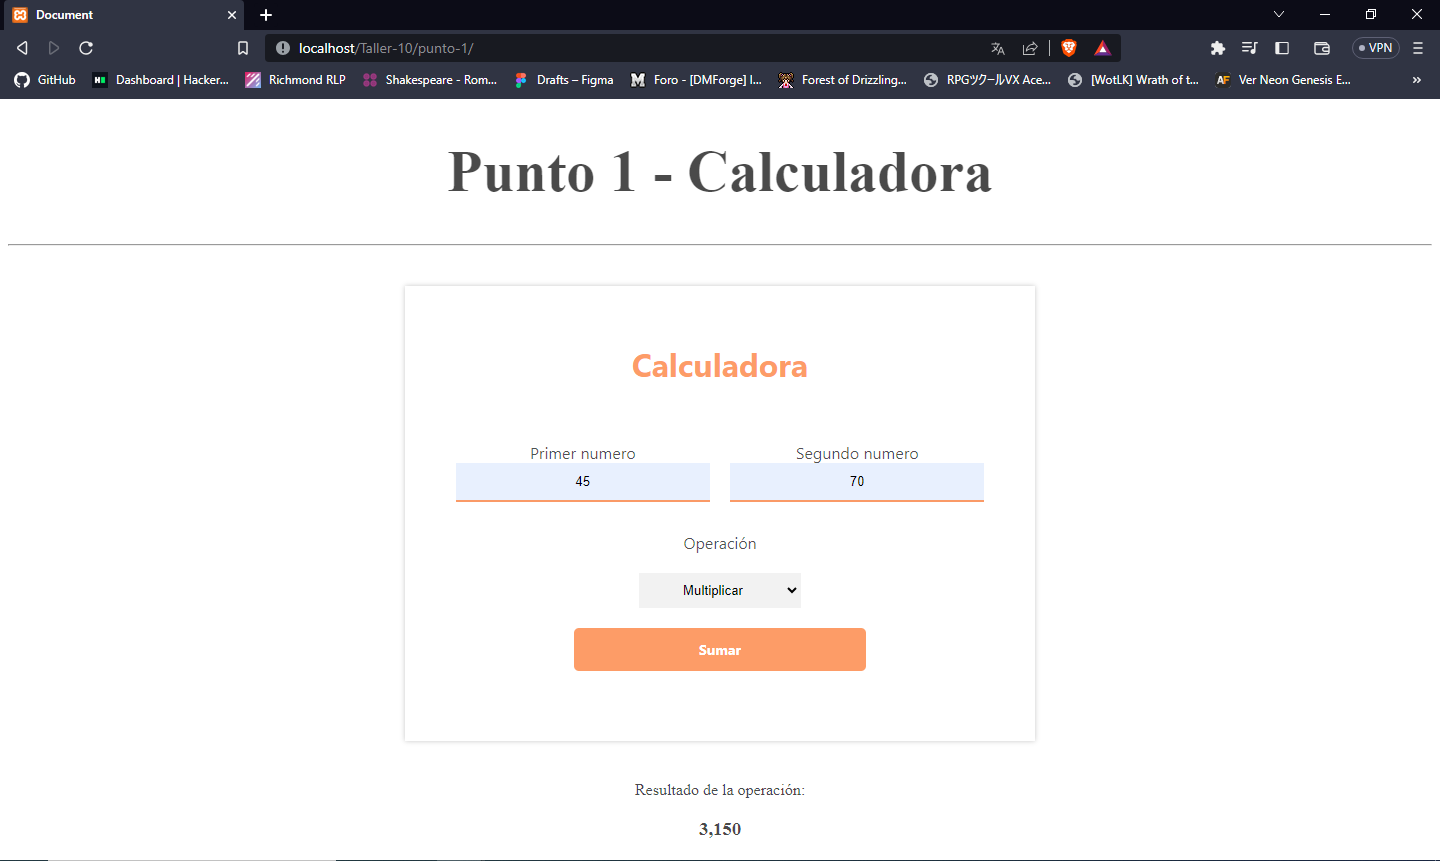
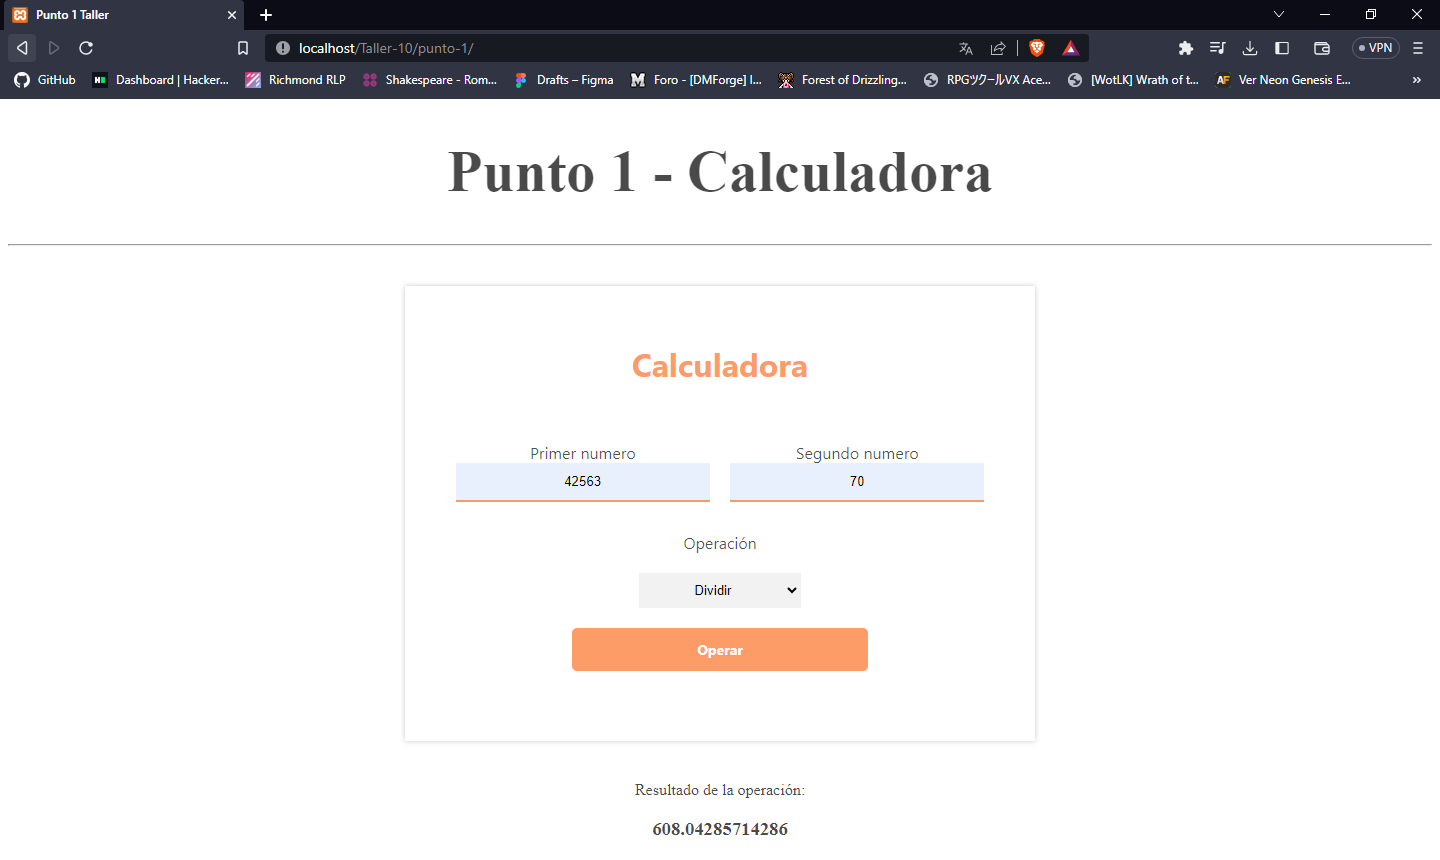
second point finished and REDME updated

diff --git a/punto-2/view/styles/form.css b/punto-2/view/styles/form.css
@@ -1,0 +1,14 @@
+.form__row {
+    margin: 40px 0px;
+}
+
+.pass__input {
+    display: flex;
+    flex-direction: column;
+    align-items: center;
+    gap: 5px;
+}
+
+.pass__input span {
+    font-size: 12px;
+}

diff --git a/punto-2/view/components/form.php b/punto-2/view/components/form.php
@@ -1,0 +1,35 @@
+<?php include "./controller/calculationController.php"; ?>
+
+<form method = "post">
+    <h2>Validacion de edad</h2>
+    <div class = "form__row">
+        <div>
+            <label for="user-name">
+                Nombre
+            </label>
+            <input
+                id = "user-name"
+                type="text"
+                name = "user_name"
+                placeholder = "Kevin"
+            >
+        </div>
+        <div class = "pass__input">
+            <label for="user-age">
+                Edad
+            </label>
+            <input
+                id = "user-age"
+                type="text"
+                name = "user_age"
+                placeholder = "21"
+            >
+        </div>
+        <?php if ($message != "") { ?>
+            <span style = "color: <?php echo $color; ?>">
+                <?php echo $userName . $message; ?>
+            </span>
+        <?php } ?>
+    </div>
+    <button>Consultar</button>
+</form>

diff --git a/punto-2/index.php b/punto-2/index.php
@@ -5,12 +5,11 @@
     <meta name="viewport" content="width=device-width, initial-scale=1.0">
     <link rel="stylesheet" href="../styles/general-styles.css">
     <link rel="stylesheet" href="./view/styles/form.css">
-    <title>Punto 1 Taller</title>
+    <title>Punto 2 Taller</title>
 </head>
 <body>
-    <h1>Punto 1 - Calculadora</h1>
+    <h1>Punto 2 - Edad</h1>
     <hr>
     <?php include "./view/components/form.php"; ?>
-    <?php include "./view/components/result.php"; ?>
 </body>
 </html>

diff --git a/punto-2/controller/calculationController.php b/punto-2/controller/calculationController.php
@@ -1,0 +1,18 @@
+<?php
+    $message = "";
+    $userName = "";
+    $color = "";
+    
+    if (isset($_POST["user_age"]) && isset($_POST["user_name"])) {
+        $userName = $_POST["user_name"];
+        $userAge = intval($_POST["user_age"]);
+
+        if ($userAge >= 18) {
+            $message = " usted es mayor de edad.";
+            $color = "green";
+        } else {
+            $message = " usted es menor de edad.";
+            $color = "red";
+        }
+    }
+?>

diff --git a/punto-5-6-7/index.php b/punto-5-6-7/index.php
@@ -3,7 +3,7 @@
 <head>
     <meta charset="UTF-8">
     <meta name="viewport" content="width=device-width, initial-scale=1.0">
-    <title>Document</title>
+    <title>Punto 5-6-7 Taller</title>
 </head>
 <body>
     <h1>Proyeto Base de Datos</h1>

diff --git a/punto-1/view/components/form.php b/punto-1/view/components/form.php
@@ -27,5 +27,5 @@
             <option value="div">Dividir</option>
         </select>
     </div>
-    <button>Sumar</button>
+    <button>Operar</button>
 </form>

diff --git a/punto-1/view/components/result.php b/punto-1/view/components/result.php
@@ -1,4 +1,4 @@
 <div>
     <p>Resultado de la operación:</p>
-    <h3><?php echo number_format($result); ?></h3>
+    <h3><?php echo $result; ?></h3>
 </div>

diff --git a/README.md b/README.md
@@ -10,6 +10,8 @@
 <img src = "./public/images/calculator.png" alt = "calculator">
 
 <h2>Punto 2:</h2>
+<h3>Edad</h3>
+<img src = "./public/images/age.png" alt = "age" >
 
 <h2>Punto 3:</h2>
 
